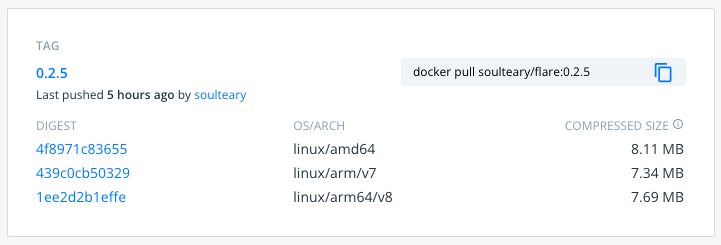
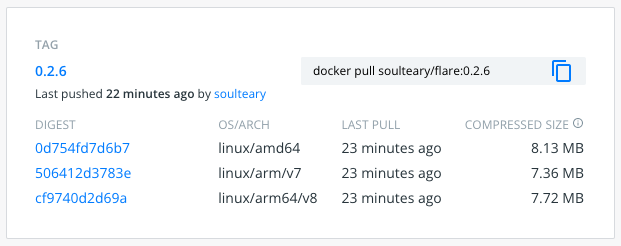
docs: update version 0.2.6

diff --git a/docs/application-account.md b/docs/application-account.md
@@ -13,7 +13,7 @@ version: '3.6'
 
 services:
   flare:
-    image: soulteary/flare:0.2.5
+    image: soulteary/flare:0.2.6
     restart: always
     # 默认无需添加任何参数，如有特殊需求
     # 可阅读文档 https://github.com/soulteary/docker-flare/blob/main/docs/advanced-startup.md
@@ -34,14 +34,15 @@ services:
 当你使用 `docker-compose up -d` 启动应用之后，接着使用 `docker-compose ps`，就可以看到包含密码的日志输出啦：
 
 ```bash
-docker-flare-flare-1  | 2022/02/16 14:11:14 用户未指定 `FLARE_USER`，使用默认用户名 flare
-docker-flare-flare-1  | 2022/02/16 14:11:14 用户未指定 `FLARE_PASS`，自动生成应用密码 7fc0e7cbc1356c93
-docker-flare-flare-1  | 2022/02/16 14:11:14 
-docker-flare-flare-1  | 2022/02/16 14:11:14 Flare v0.2.5-DD66850 linux/amd64 BuildDate=2022-02-16T13:36:31+0800
-docker-flare-flare-1  | 2022/02/16 14:11:14 
-docker-flare-flare-1  | 2022/02/16 14:11:14 服务端口 5005
-docker-flare-flare-1  | 2022/02/16 14:11:14 合并页面资源请求 false
-docker-flare-flare-1  | 2022/02/16 14:11:14 启用应用离线模式 false
-docker-flare-flare-1  | 2022/02/16 14:11:14 启用免登陆模式 true
-docker-flare-flare-1  | 2022/02/16 14:11:14 应用已启动 🚀
+docker-flare-flare-1  | 2022/02/17 13:35:04 用户未指定 `FLARE_USER`，使用默认用户名 flare
+docker-flare-flare-1  | 2022/02/17 13:35:04 用户未指定 `FLARE_PASS`，自动生成应用密码 cd888435ec5678d6
+docker-flare-flare-1  | 2022/02/17 13:35:04 
+docker-flare-flare-1  | 2022/02/17 13:35:04 Flare v0.2.6-E7DDC50 linux/amd64 BuildDate=2022-02-17T13:10:50+0800
+docker-flare-flare-1  | 2022/02/17 13:35:04 
+docker-flare-flare-1  | 2022/02/17 13:35:04 服务端口 5005
+docker-flare-flare-1  | 2022/02/17 13:35:04 合并页面资源请求 false
+docker-flare-flare-1  | 2022/02/17 13:35:04 启用应用离线模式 false
+docker-flare-flare-1  | 2022/02/17 13:35:04 启用免登陆模式 true
+docker-flare-flare-1  | 2022/02/17 13:35:04 启用教程模块，可以访问 /guide 来获取“使用向导”。
+docker-flare-flare-1  | 2022/02/17 13:35:04 应用已启动 🚀
 ```

diff --git a/README.md b/README.md
@@ -36,20 +36,34 @@ cd docker-flare
 启动应用非常简单，如果你习惯使用 Docker，可以执行：
 
 ```bash
-docker run --rm -it -p 5005:5005 -v `pwd`/app:/app soulteary/flare:0.2.5
+docker run --rm -it -p 5005:5005 -v `pwd`/app:/app soulteary/flare:0.2.6
 ```
 
-如果你习惯使用 docker-compose：
+如果你习惯使用 docker-compose，只需要执行：
 
 ```bash
 docker-compose up -d
 ```
 
-在命令执行完毕之后，默认访问浏览器的 `5005` 端口，就能看到下面的界面啦：
+如果你是 Traefik 用户，可以参考 `docker-compose.traefik.yml` 配置文件来使用。
+
+不论是哪一种方式，在命令执行完毕之后，默认情况下，我们访问浏览器的 `5005` 端口，就能看到下面的界面啦：
 
 ![Flare Web UI](./screenshots/ui.png)
 
+### 应用使用向导
+
+为了方便你的使用，我制作了一个简单的向导程序，在 flare 启动之后，你可以随时访问 `/guide`，获取 flare 基础界面功能的介绍。
+
+![Flare Guide](./screenshots/flare-guide.png)
+
+## 应用性能
+
+“快”作为 Flare 对主要优势而言，自然是需要“满分”来加持。
+
 ![Flare Lighthouse Scores](./screenshots/lighthouse.png)
+
+如果你好奇这是如何实现的，可以阅读这篇文章：[《Flare 制作记录：应用前后端性能优化》](https://soulteary.com/2022/01/19/flare-production-record-application-frontend-and-backend-performance-optimization.html)。
 
 ## 进阶文档
 

diff --git a/CHANGELOG.md b/CHANGELOG.md
@@ -4,6 +4,7 @@
 
 ## 目录
 
+* [0.2.6](#026---2022-02-17)
 * [0.2.5](#025---2022-02-16)
 * [0.2.4](#024---2022-02-11)
 * [0.2.3](#023---2022-02-08)
@@ -11,7 +12,11 @@
 * [0.2.0](#020---2022-01-30)
 * [0.1.0](#010---2022-01-27)
 
+## 0.2.6 - 2022-02-17
 
+当前版本新增了一个简单的功能，“使用向导”，相比较阅读文章，十几秒钟的交互引导会更直观一些。
+
+- [新增] 用户使用向导，访问 `/guide` 即可使用，如果不需要这个功能，可以在环境变量中配置 `FLARE_GUIDE=0` 来关闭功能。
 
 ## 0.2.5 - 2022-02-16
 
